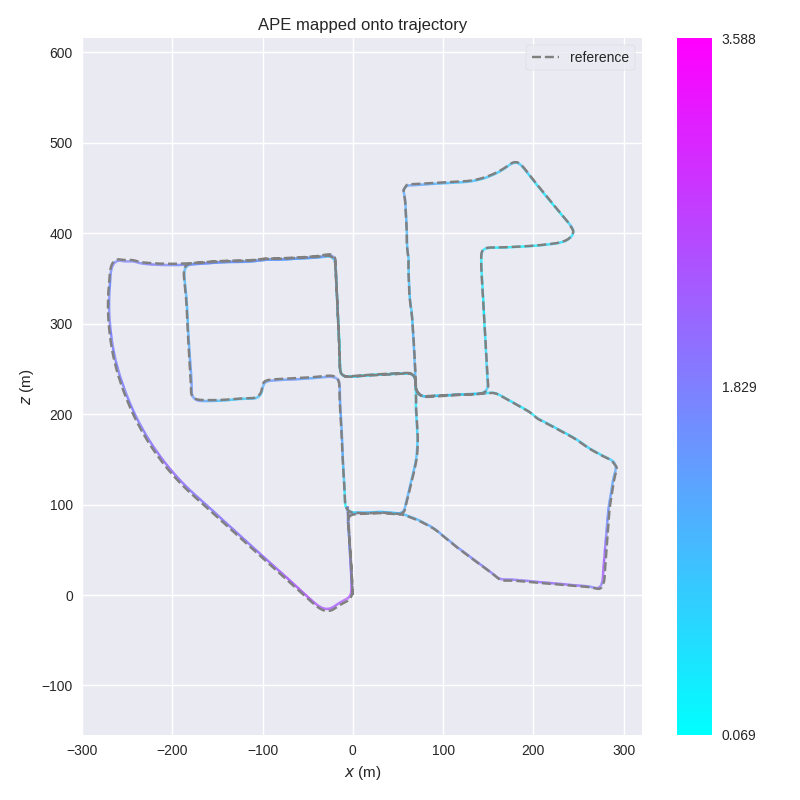
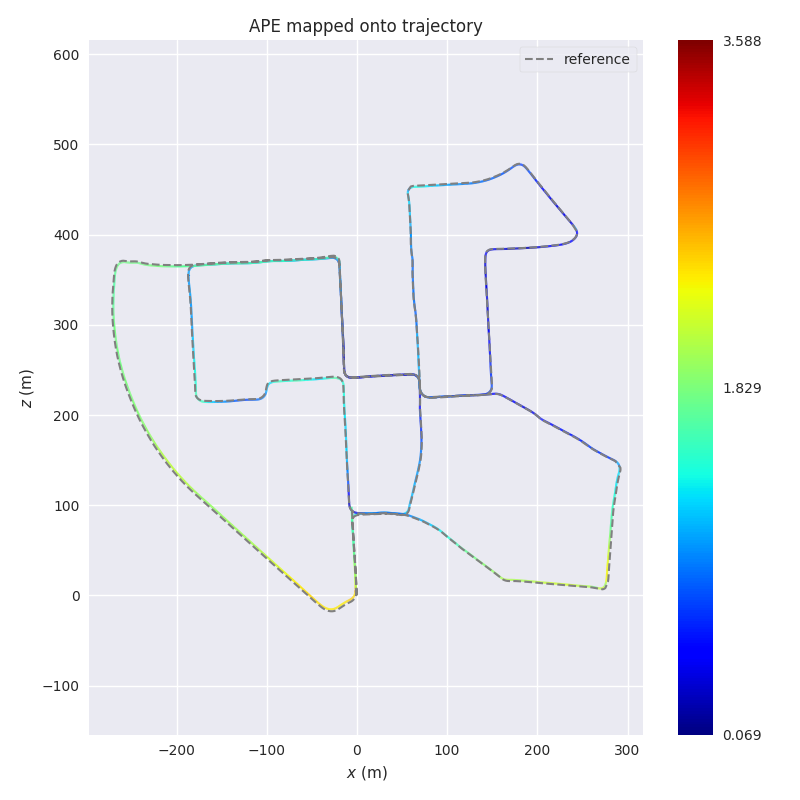
jet is now default plot_trajectory_cmap, updated README.md

diff --git a/evo/tools/settings.py b/evo/tools/settings.py
@@ -50,7 +50,7 @@ DEFAULT_SETTINGS_DICT = {
     "plot_split": False,
     "plot_figsize": [8, 8],
     "plot_info_text": False,
-    "plot_trajectory_cmap": "cool",
+    "plot_trajectory_cmap": "jet",
     "plot_multi_cmap": "none",
     "plot_invert_xaxis": False,
     "plot_invert_yaxis": False,

diff --git a/evo/tools/plot.py b/evo/tools/plot.py
@@ -79,6 +79,7 @@ class PlotCollection:
         return self.title + " (" + str(len(self.figures)) + " figure(s))"
 
     def add_figure(self, name, fig):
+        fig.tight_layout()
         self.figures[name] = fig
 
     def tabbed_qt_window(self):

diff --git a/README.md b/README.md
@@ -100,6 +100,7 @@ There are some example trajectories in the source folder in `evo/test/data`.
 
   <center>
   <a href="evo/doc/traj_demo.png" target="_blank"><img src="evo/doc/traj_demo.png" alt="evo" height="200" border="5" />
+  <a href="evo/doc/traj_demo_xyz.png" target="_blank"><img src="evo/doc/traj_demo_xyz.png" alt="evo" height="200" border="5" />
   </center></a>
 
 2. ***Run a metric on trajectories***
@@ -146,6 +147,7 @@ There are some example trajectories in the source folder in `evo/test/data`.
   <a href="evo/doc/res_raw.png" target="_blank"><img src="evo/doc/res_raw.png" alt="evo" height="200" border="5" /></a>
   <a href="evo/doc/res_dist.png" target="_blank"><img src="evo/doc/res_dist.png" alt="evo" height="200" border="5" /> </a>
   <a href="evo/doc/res_stats.png" target="_blank"><img src="evo/doc/res_stats.png" alt="evo" height="200" border="5" /></a>
+  <a href="evo/doc/res_box.png" target="_blank"><img src="evo/doc/res_box.png" alt="evo" height="200" border="5" /></a>
   <a href="evo/doc/res_violin.png" target="_blank"><img src="evo/doc/res_violin.png" alt="evo" height="200" border="5" />
   </center></a>
 
